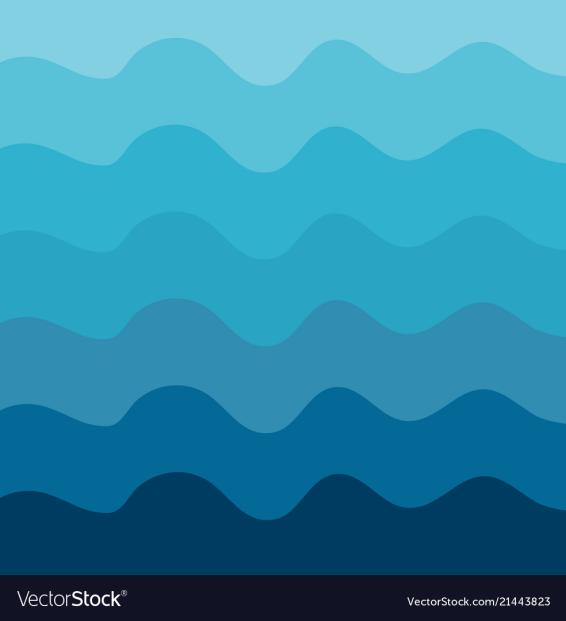
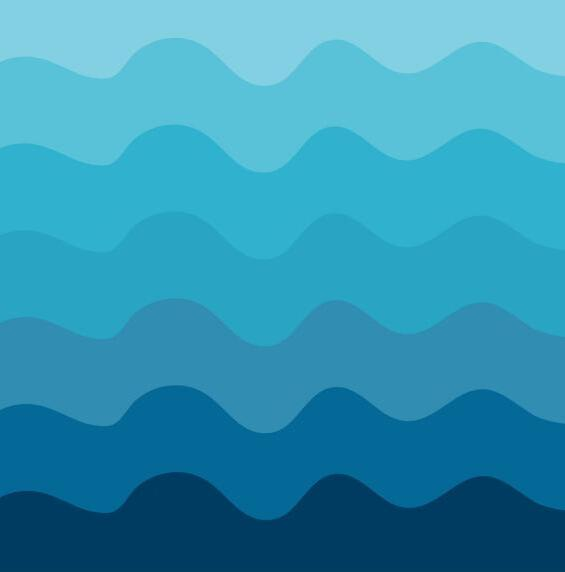
ondas recortadas

diff --git a/componentes/paginas/entrar/login_form-cpf.html b/componentes/paginas/entrar/login_form-cpf.html
@@ -31,11 +31,11 @@
             </div>
             <button class="button">
               <svg xmlns="http://www.w3.org/2000/svg" preserveAspectRatio="xMidYMid" viewBox="0 0 256 262">
-              <path fill="#4285F4" d="M255.878 133.451c0-10.734-.871-18.567-2.756-26.69H130.55v48.448h71.947c-1.45 12.04-9.283 30.172-26.69 42.356l-.244 1.622 38.755 30.023 2.685.268c24.659-22.774 38.875-56.282 38.875-96.027"></path>
-              <path fill="#34A853" d="M130.55 261.1c35.248 0 64.839-11.605 86.453-31.622l-41.196-31.913c-11.024 7.688-25.82 13.055-45.257 13.055-34.523 0-63.824-22.773-74.269-54.25l-1.531.13-40.298 31.187-.527 1.465C35.393 231.798 79.49 261.1 130.55 261.1"></path>
-              <path fill="#FBBC05" d="M56.281 156.37c-2.756-8.123-4.351-16.827-4.351-25.82 0-8.994 1.595-17.697 4.206-25.82l-.073-1.73L15.26 71.312l-1.335.635C5.077 89.644 0 109.517 0 130.55s5.077 40.905 13.925 58.602l42.356-32.782"></path>
-              <path fill="#EB4335" d="M130.55 50.479c24.514 0 41.05 10.589 50.479 19.438l36.844-35.974C195.245 12.91 165.798 0 130.55 0 79.49 0 35.393 29.301 13.925 71.947l42.211 32.783c10.59-31.477 39.891-54.251 74.414-54.251"></path>
-            </svg>
+                <path fill="#4285F4" d="M255.878 133.451c0-10.734-.871-18.567-2.756-26.69H130.55v48.448h71.947c-1.45 12.04-9.283 30.172-26.69 42.356l-.244 1.622 38.755 30.023 2.685.268c24.659-22.774 38.875-56.282 38.875-96.027"></path>
+                <path fill="#34A853" d="M130.55 261.1c35.248 0 64.839-11.605 86.453-31.622l-41.196-31.913c-11.024 7.688-25.82 13.055-45.257 13.055-34.523 0-63.824-22.773-74.269-54.25l-1.531.13-40.298 31.187-.527 1.465C35.393 231.798 79.49 261.1 130.55 261.1"></path>
+                <path fill="#FBBC05" d="M56.281 156.37c-2.756-8.123-4.351-16.827-4.351-25.82 0-8.994 1.595-17.697 4.206-25.82l-.073-1.73L15.26 71.312l-1.335.635C5.077 89.644 0 109.517 0 130.55s5.077 40.905 13.925 58.602l42.356-32.782"></path>
+                <path fill="#EB4335" d="M130.55 50.479c24.514 0 41.05 10.589 50.479 19.438l36.844-35.974C195.245 12.91 165.798 0 130.55 0 79.49 0 35.393 29.301 13.925 71.947l42.211 32.783c10.59-31.477 39.891-54.251 74.414-54.251"></path>
+              </svg>
               Entrar com Google
             </button>
 

diff --git a/componentes/paginas/cadastro/cliente.html b/componentes/paginas/cadastro/cliente.html
@@ -82,8 +82,7 @@
           <div class="input_nome">
             <div class="nome">
               <label class="input_label" for="cep">CEP</label>
-              <input
-                class="input_name"
+              <input class="input_name"
                 type="tel"
                 placeholder="Informe o Cep"
                 id="cep"

diff --git a/componentes/css/logins_form.css b/componentes/css/logins_form.css
@@ -168,8 +168,10 @@ button {
   height: 24px;
 }
 
-button:hover {
-  transform: scale(1.02);
+.button:hover {
+    border: 1px solid #1E90FF;
+    box-shadow: 0px 0px 0px 1px #1E90FF;
+    text-decoration: none;
 }
 .separator {
   width: 100%;
